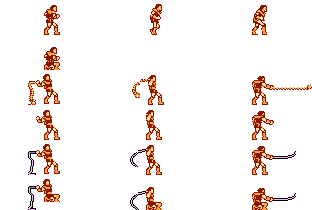
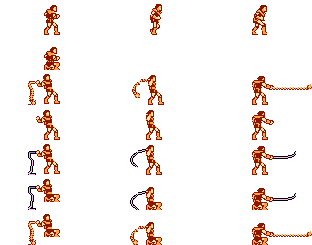
Collision setted for every sprite size

diff --git a/Game/js/playerPrefab.js b/Game/js/playerPrefab.js
@@ -3,25 +3,28 @@ class playerPrefab extends Phaser.GameObjects.Sprite {
         super(_scene, _positionX, _positionY, _spriteTag);
         _scene.add.existing(this);
         _scene.physics.world.enable(this);
-        this.setOrigin(0.5, 0.5);
-        this.body.setSize(16, 36)
+        this.setOrigin(0.5, 0);
+        this.body.setSize(16, 30);
+        this.body.setOffset(44, 5);
         this.body.collideWorldBounds = true;
 
         this.cursors = _scene.input.keyboard.createCursorKeys();
-        this._time = _scene.time;
-        this._anims = _scene.anims;
+        this._time = _scene.time; 
     }
 
     Update() {
+        // Movement, inputs player
         this.Move();
         this.Jump();
         this.Attack();
+
+        // Collisions
+        this.SetBoxColliders();
     }
 
     Move() {
 
-        if (!mainCharacterPrefs.isAttacking)
-        {
+        if (!mainCharacterPrefs.isAttacking) {
             if (this.cursors.right.isDown) {
                 this.body.velocity.x = mainCharacterPrefs.speed;
                 this.flipX = false;
@@ -44,73 +47,155 @@ class playerPrefab extends Phaser.GameObjects.Sprite {
     }
 
     Jump() {
-        if (!mainCharacterPrefs.isAttacking)
-        {
+        if (!mainCharacterPrefs.isAttacking) {
             if (this.cursors.up.isDown &&
                 this.body.onFloor() && Phaser.Input.Keyboard.DownDuration(this.cursors.up, 100)) {
                 this.body.velocity.y = -mainCharacterPrefs.jumpForce;
             }
         }
-
     }
 
     Attack() {
-        
+
         // Large attack
         if (this.cursors.space.isDown
-            && !this.cursors.down.isDown 
-            && !mainCharacterPrefs.isAttacking 
+            && !this.cursors.down.isDown
+            && !mainCharacterPrefs.isAttacking
             && Phaser.Input.Keyboard.DownDuration(this.cursors.space, 100)
-            && mainCharacterPrefs.isLargeAttack)
-        {
+            && mainCharacterPrefs.isLargeAttack) {
             mainCharacterPrefs.isAttacking = true;
             this._time.delayedCall(300, this.AttackUp, null, this);
 
-            this.body.velocity.x = 0;  
-            this.play('normal_large_attack',true);
-            
+            this.body.velocity.x = 0;
+            this.play('normal_large_attack', true);
+
         }
         // Normal attack
         else if (this.cursors.space.isDown
-            && !this.cursors.down.isDown 
-            && !mainCharacterPrefs.isAttacking 
+            && !this.cursors.down.isDown
+            && !mainCharacterPrefs.isAttacking
             && Phaser.Input.Keyboard.DownDuration(this.cursors.space, 100)
-            && !mainCharacterPrefs.isLargeAttack)
-        {
+            && !mainCharacterPrefs.isLargeAttack) {
             mainCharacterPrefs.isAttacking = true;
             this._time.delayedCall(300, this.AttackUp, null, this);
 
-            this.body.velocity.x = 0;  
-            this.play('normal_attack',true);
+            this.body.velocity.x = 0;
+            this.play('normal_attack', true);
         }
         else if (this.cursors.space.isDown
             && this.cursors.down.isDown
-            && !mainCharacterPrefs.isAttacking 
+            && !mainCharacterPrefs.isAttacking
             && Phaser.Input.Keyboard.DownDuration(this.cursors.space, 100)
-            && !mainCharacterPrefs.isLargeAttack)
-        {
+            && mainCharacterPrefs.isLargeAttack) {
             mainCharacterPrefs.isAttacking = true;
             this._time.delayedCall(300, this.AttackUp, null, this);
 
-            this.body.velocity.x = 0;  
-            this.play('crouch_attack',true);
+            this.body.velocity.x = 0;
+            this.play('crouch_large_attack', true);
+
         }
-        
-        // Special attack
-        if(this.cursors.shift.isDown 
+        // Crouch attack
+        else if (this.cursors.space.isDown
+            && this.cursors.down.isDown
             && !mainCharacterPrefs.isAttacking
-            && Phaser.Input.Keyboard.DownDuration(this.cursors.shift, 100))
-        {
+            && Phaser.Input.Keyboard.DownDuration(this.cursors.space, 100)
+            && !mainCharacterPrefs.isLargeAttack) {
             mainCharacterPrefs.isAttacking = true;
             this._time.delayedCall(300, this.AttackUp, null, this);
-            
+
             this.body.velocity.x = 0;
-            this.play('special_attack',true);
+            this.play('crouch_attack', true);
+        }
+
+        // Special attack
+        if (this.cursors.shift.isDown
+            && !mainCharacterPrefs.isAttacking
+            && Phaser.Input.Keyboard.DownDuration(this.cursors.shift, 100)) {
+            mainCharacterPrefs.isAttacking = true;
+            this._time.delayedCall(300, this.AttackUp, null, this);
+
+            this.body.velocity.x = 0;
+            this.play('special_attack', true);
         }
     }
-    AttackUp()
-    {
+    AttackUp() {
         mainCharacterPrefs.isAttacking = false;
+    }
+    SetBoxColliders() {
+         // CROUCH NO ATTACK & NO LARGE ATTACK
+        if (this.cursors.down.isDown
+            && !this.cursors.left.isDown
+            && !this.cursors.right.isDown
+            && !mainCharacterPrefs.isAttacking
+            && !mainCharacterPrefs.isLargeAttack) {
+            this.body.setSize(16, 23);
+            this.body.setOffset(44, 12);
+        }
+        // CROUCH ATTACK RIGHT & NO LARGE ATTACK
+        else if (this.cursors.down.isDown
+            && !this.flipX
+            && mainCharacterPrefs.isAttacking
+            && !mainCharacterPrefs.isLargeAttack) {
+            this.body.setSize(44, 23);
+            this.body.setOffset(44, 12);
+        }
+        // CROUCH ATTACK LEFT & NO LARGE ATTACK
+        else if (this.cursors.down.isDown
+            && this.flipX
+            && mainCharacterPrefs.isAttacking
+            && !mainCharacterPrefs.isLargeAttack) {
+            this.body.setSize(44, 23);
+            this.body.setOffset(16, 12);
+        }
+        // UP ATTACK RIGHT & NO LARGE ATTACK
+        else if (!this.flipX
+            && mainCharacterPrefs.isAttacking
+            && !mainCharacterPrefs.isLargeAttack) {
+            this.body.setSize(44, 30);
+            this.body.setOffset(44, 5);
+        }
+        // UP ATTACK LEFT & NO LARGE ATTACK
+        else if (this.flipX
+            && mainCharacterPrefs.isAttacking
+            && !mainCharacterPrefs.isLargeAttack) {
+            this.body.setSize(44, 30);
+            this.body.setOffset(16, 5);
+        }
+        // CROUCH ATTACK RIGHT & LARGE ATTACK
+        else if (this.cursors.down.isDown
+            && !this.flipX
+            && mainCharacterPrefs.isAttacking
+            && mainCharacterPrefs.isLargeAttack) {
+            this.body.setSize(60, 23);
+            this.body.setOffset(44, 12);
+        }
+        // CROUCH ATTACK LEFT & LARGE ATTACK
+        else if (this.cursors.down.isDown
+            && this.flipX
+            && mainCharacterPrefs.isAttacking
+            && mainCharacterPrefs.isLargeAttack) {
+            this.body.setSize(60, 23);
+            this.body.setOffset(0, 12);
+        }
+        // UP ATTACK RIGHT & NO LARGE ATTACK
+        else if (!this.flipX
+            && mainCharacterPrefs.isAttacking
+            && mainCharacterPrefs.isLargeAttack) {
+            this.body.setSize(60, 30);
+            this.body.setOffset(44, 5);
+        }
+        // UP ATTACK LEFT & NO LARGE ATTACK
+        else if (this.flipX
+            && mainCharacterPrefs.isAttacking
+            && mainCharacterPrefs.isLargeAttack) {
+            this.body.setSize(60, 30);
+            this.body.setOffset(0, 5);
+        }
+        // DEFAULT IDLE
+        else {
+            this.body.setSize(16, 30);
+            this.body.setOffset(44, 5);
+        }
     }
 
 }

diff --git a/Game/js/playerScene.js b/Game/js/playerScene.js
@@ -54,6 +54,12 @@ class playerScene extends Phaser.Scene {
             frameRate: mainCharacterPrefs.frameRateAttack,
             repeat: 0
         })
+        this.anims.create({
+            key: 'crouch_large_attack',
+            frames: this.anims.generateFrameNumbers('player', { frames: [18, 19, 20] }),
+            frameRate: mainCharacterPrefs.frameRateAttack,
+            repeat: 0
+        })
     }
 
     loadPulls() {
